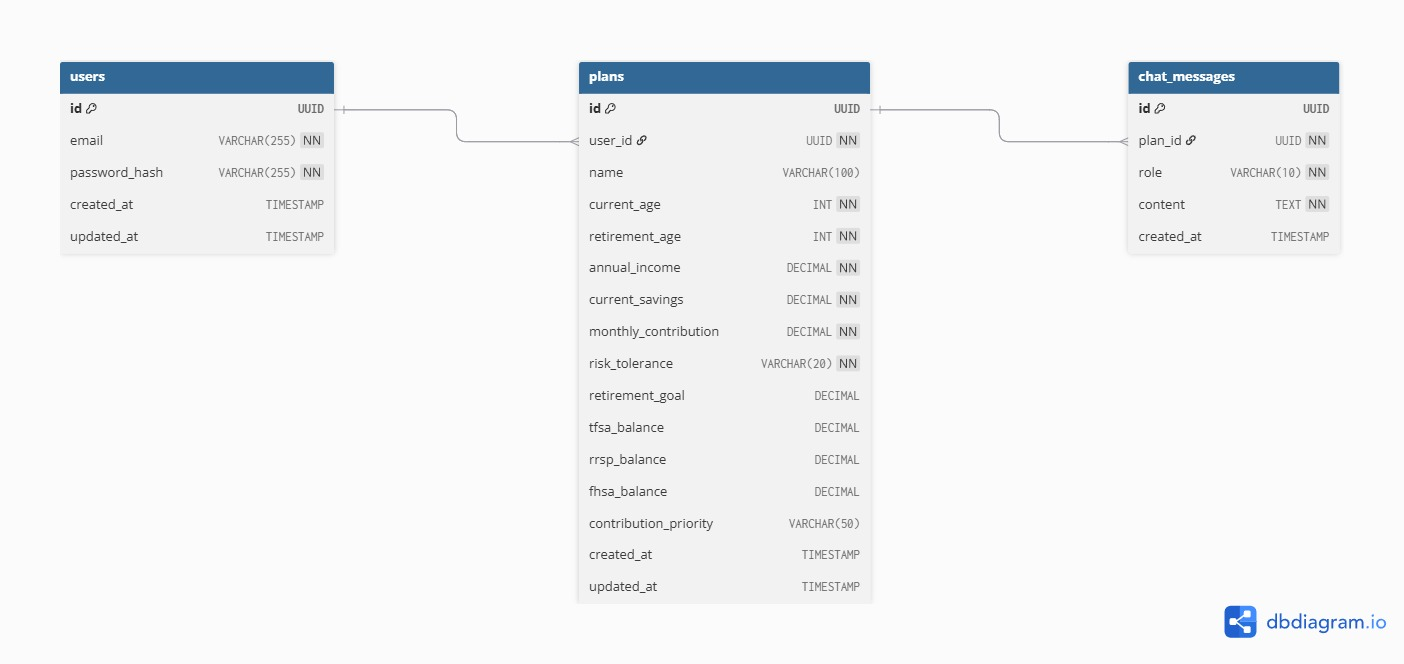
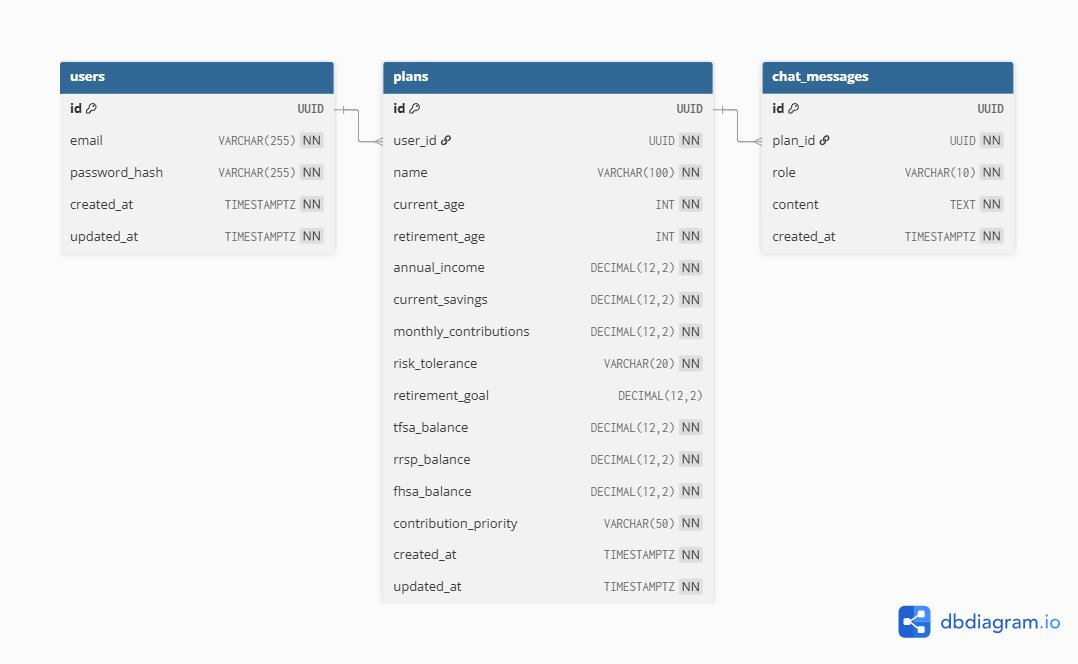
updated readme & diagrams

diff --git a/README.md b/README.md
@@ -2,11 +2,9 @@
 
 Vestra is an AI-powered retirement planning tool for Canadians. Input your financial details, visualize your retirement projection, and chat with an AI assistant that understands your actual plan.
 
----
-
-## Related Repo
-
-Frontend: [vestra-fe](https://github.com/mpolisch/vestra-fe)
+Live API: https://vestra-be-poduction.up.railway.app
+Frontend: https://vestra-chi.vercel.app
+Frontend Repo: [vestra-fe](https://github.com/mpolisch/vestra-fe)
 
 ---
 
@@ -15,11 +13,11 @@ Frontend: [vestra-fe](https://github.com/mpolisch/vestra-fe)
 | Layer       | Technology                     |
 | ----------- | ------------------------------ |
 | Runtime     | Node.js                        |
-| Framework   | Express                        |
+| Framework   | Express 5                      |
 | Language    | TypeScript                     |
 | Database    | PostgreSQL                     |
 | Auth        | JWT + bcrypt + httpOnly cookies|
-| AI          | Claude API (Anthropic)         |
+| AI          | Claude Haiku (Anthropic API)   |
 | Hosting     | Railway                        |
 
 ---
@@ -28,15 +26,17 @@ Frontend: [vestra-fe](https://github.com/mpolisch/vestra-fe)
 
 ![ERD](src/assets/Vestra%20DB%20ERD.jpg)
 
-DB Schema is subject to change.
+---
+
+## Architecture
+
+![Architecture diagram showing a user/browser communicating over HTTPS with a Next.js frontend hosted on Vercel, which communicates via HTTPS/REST with an Express API hosted on Railway. The Express API connects to a PostgreSQL database within the same Railway environment via TCP, and to the Claude API (Anthropic) externally via HTTPS using the Anthropic SDK.](src/assets/Vestra%20Architecture.jpg)
 
 ---
 
 ## API Reference
 
 ### Auth
-
-
 | Method | Endpoint               | Description                        | Auth Required |
 | ------ | ---------------------- | ---------------------------------- | ------------- |
 | POST   | `/api/auth/register`   | Register a new user                | No            |
@@ -44,7 +44,25 @@ DB Schema is subject to change.
 | POST   | `/api/auth/logout`     | Clears auth cookie                 | No            |
 | GET    | `/api/auth/me`         | Returns current authenticated user | Yes           |
 
-Rest of the methods are TBD. API is subject to change.
+### Plans
+| Method | Endpoint          | Description              | Auth |
+| ------ | ----------------- | ------------------------ | ---- |
+| GET    | `/api/plans`      | Get all plans for user   | Yes  |
+| POST   | `/api/plans`      | Create a new plan        | Yes  |
+| GET    | `/api/plans/:id`  | Get a specific plan      | Yes  |
+| PUT    | `/api/plans/:id`  | Update a plan            | Yes  |
+| DELETE | `/api/plans/:id`  | Delete a plan            | Yes  |
+
+### Projections
+| Method | Endpoint                   | Description                    | Auth |
+| ------ | -------------------------- | ------------------------------ | ---- |
+| GET    | `/api/plans/:id/projection`| Get retirement projection data | Yes  |
+
+### Chat
+| Method | Endpoint               | Description                          | Auth |
+| ------ | ---------------------- | ------------------------------------ | ---- |
+| GET    | `/api/plans/:id/chat`  | Get chat history for a plan          | Yes  |
+| POST   | `/api/plans/:id/chat`  | Send a message, receive AI response  | Yes  |
 
 --- 
 
@@ -66,11 +84,15 @@ npm install
 
 ### Environment Variables
 
-Copy `.env.example` to `.env` and fill in the values:
+Copy `.env.example` to `.env` and fill in the values
 
-Run the development server (with hot reload):
+### Run Migrations
 
-### Running Locally
+```bash
+npm run migrate
+```
+
+### Start Development Server
 
 ```bash
 npm run dev
@@ -80,7 +102,7 @@ npm run dev
 
 ```bash
 npm run build
-npm run start
+npm start
 ```
 
 API runs at [http://localhost:4000](http://localhost:4000)
@@ -96,31 +118,64 @@ API runs at [http://localhost:4000](http://localhost:4000)
 | `npm run format` | Format all files with Prettier |
 | `npm run format:check` | Check formatting without writing |
 | `npm run migrate` | Run database migrations |
+| `npm run typecheck` | TypeScript type check without emitting |
+| `npm run test` | Run Jest unit tests |
 
 ---
 
 ## Security
 
-- Passwords hashed with bcrypt (10 rounds)
-- JWT stored in httpOnly, Secure, SameSite=Strict cookies
+- Passwords hashed with bcrypt (12 rounds)
+- JWT stored in httpOnly, Secure, SameSite=none cookies (cross-doman Vercel/Railway)
 - All database queries use parameterized statements (SQL injection prevention)
 - Secure HTTP headers via helmet.js
-- Rate limiting on auth endpoints (express-rate-limit)
+- Rate limiting on auth endpoints: 20 req/15min
+- Rate limiting on AI chat endpoint: 10 req/min
 - CORS restricted to whitelisted frontend origin
-- PostgreSQL encryption at rest via Neon
+- trust proxy enabled for correct IP detection behind Railway's load balancer
+- Input validation on all endpoints via Zod schemas
+- ANTHROPIC_API_KEY, JWT_SECRET, CORS_ORIGIN validated at startup
+- PostgreSQL private networking via Railway internal DNS
+
+---
+
+## Projection Model
+
+Growth rates by risk tolerance:
+- Conservative: 4% annual return
+- Moderate: 6% annual return  
+- Aggressive: 8% annual return
+
+Contribution priority strategies:
+- TFSA First: maximizes tax-free growth
+- Balanced: 50/30/20 split across TFSA/RRSP/unregistered
+- RRSP Heavy: 70/30 split favouring RRSP
+
+Unregistered savings grow at 2% (HISA rate).
+
+Known simplifications (documented as future enhancements):
+- CRA annual contribution limits not enforced
+- FHSA receives no new contributions in current model
+- Post-retirement drawdown not modeled
+- Growth rates are fixed (no volatility)
 
 ---
 
 ## Future Enhancements
-
-- Email verification on registration
-- Password reset flow
-- Column-level encryption for sensitive financial data
-- Tax calculation by province (federal + provincial brackets)
-- CRA contribution room API integration
-- CPP/OAS projections
-- Monte Carlo stress-testing
-- Conversation summarization for long chat histories
-- PDF export of retirement plan
-- Automated security scanning in CI
-- Migrations tracking table, update init_db.ts to skip already-run files, and auto-run migrations on deploy
+- AI streaming responses: SSE-based streaming for real-time chat feel
+- AI tool use: allow Claude to call projection recalculation and plan update functions mid-conversation for real-time "what if" scenarios
+- CRA contribution limits: enforce annual TFSA ($7,000), RRSP (18% of income) limits with overflow logic
+- FHSA contribution logic: model annual FHSA contributions with $8,000/year limit and $40,000 lifetime cap
+- CPP/OAS projections: integrate government benefit estimates into retirement income modeling
+- Post-retirement drawdown: model spending rate, safe withdrawal rate, and portfolio longevity
+- Monte Carlo simulation: stress-test projections across variable return scenarios
+- Redis-backed rate limiting: replace in-memory rate limiter with Redis for multi-instance deployments, keyed on userId
+- User-based chat rate limiting: key chat limiter on userId instead of IP for fairness on shared networks
+- Column-level encryption: encrypt sensitive financial fields at rest
+- Email verification: verify email on registration
+- Password reset flow: forgot password via email link
+- Request logging: Morgan middleware for structured HTTP request logs
+- Migrations tracking table: skip already-run migrations, auto-run on deploy
+- Unit tests for projection logic: Jest tests for compound growth calculations and contribution allocation
+- PDF export: generate downloadable retirement plan summary
+- Province-level tax calculations: federal + provincial tax brackets for more accurate income modeling